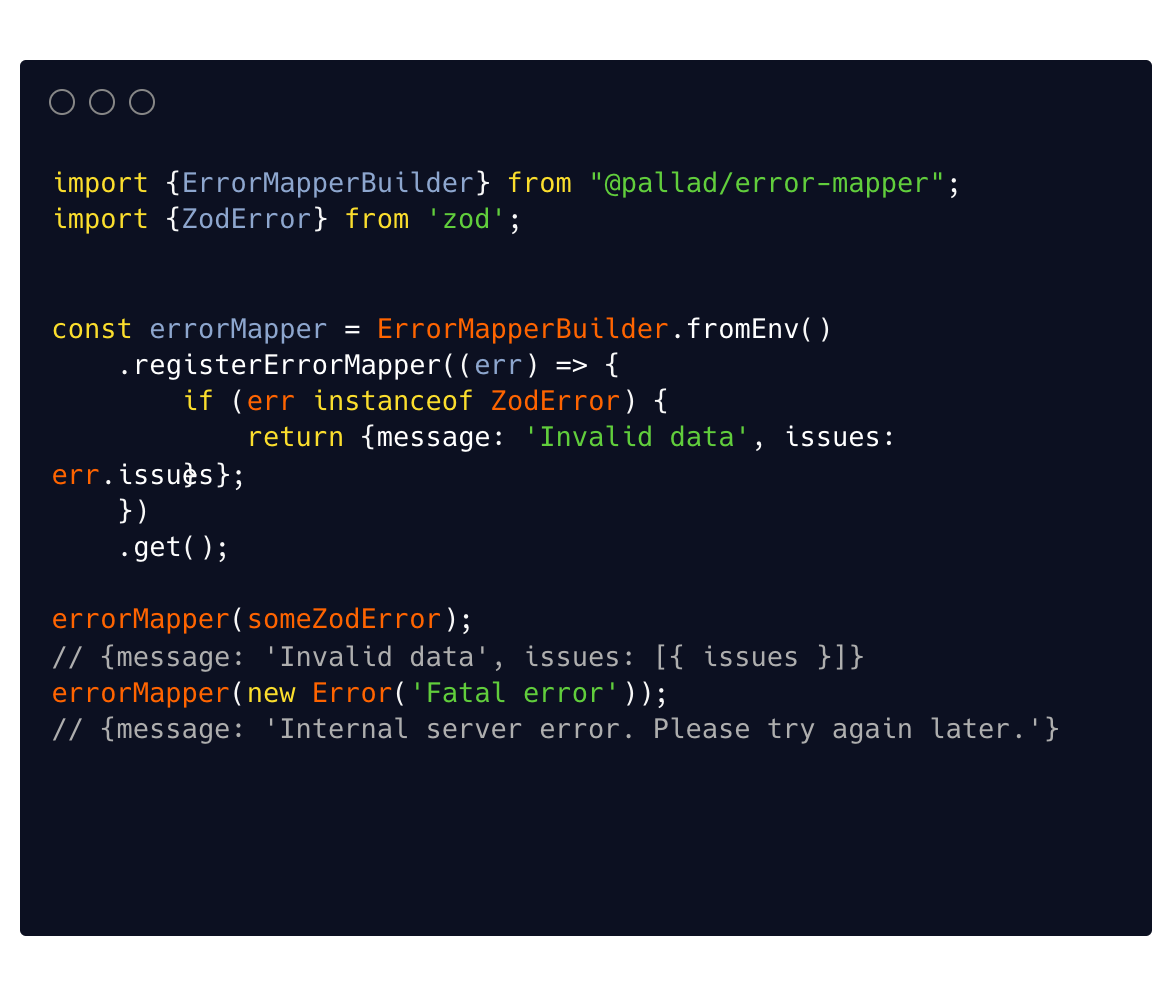
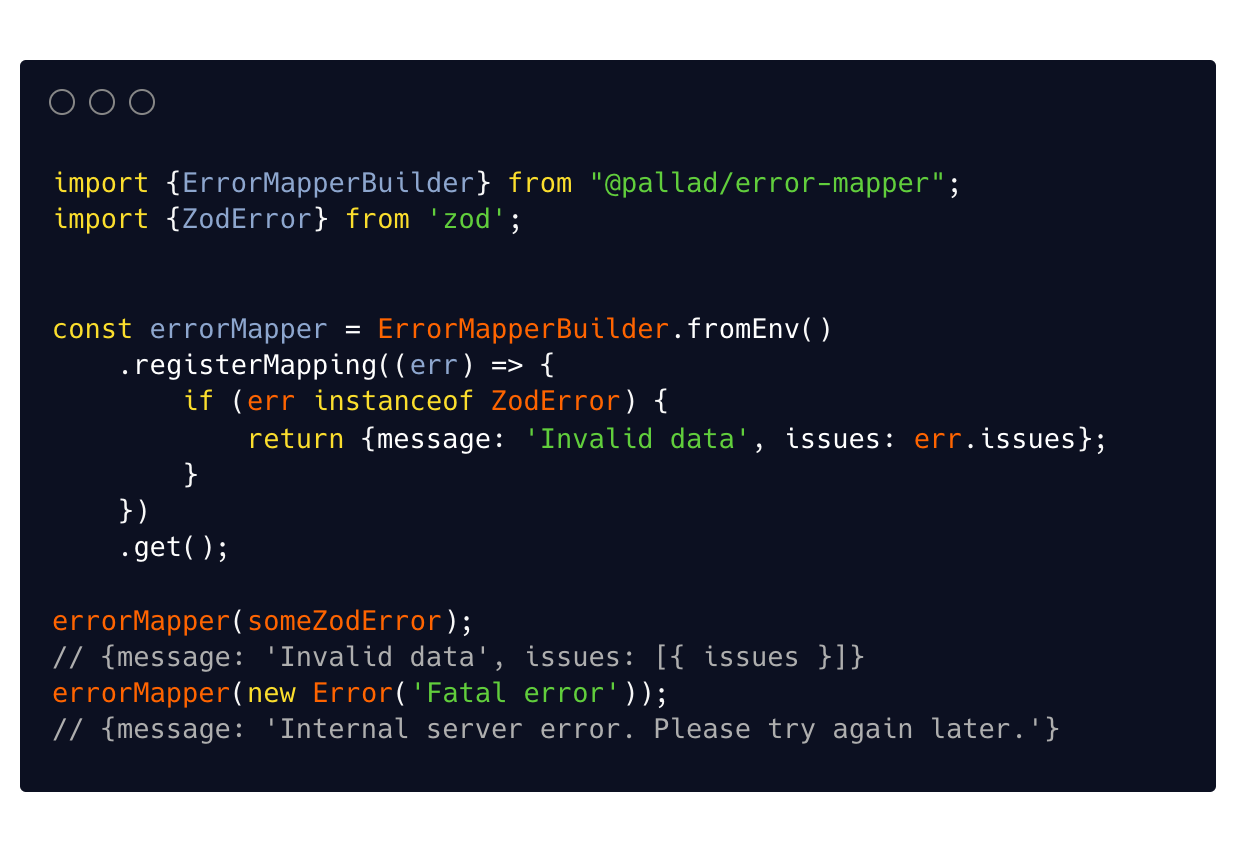
Better code example

diff --git a/assets/code.ts b/assets/code.ts
@@ -1,0 +1,14 @@
+import {ErrorMapperBuilder} from "@pallad/error-mapper";
+import {ZodError} from 'zod';
+
+
+const errorMapper = ErrorMapperBuilder.fromEnv()
+	.registerMapping((err) => {
+		if (err instanceof ZodError) {
+			return {message: 'Invalid data', issues: err.issues};
+		}
+	})
+	.get();
+
+errorMapper(someZodError); // {message: 'Invalid data', issues: [{ issues }]}
+errorMapper(new Error('Fatal error')); // {message: 'Internal server error. Please try again later.'}
